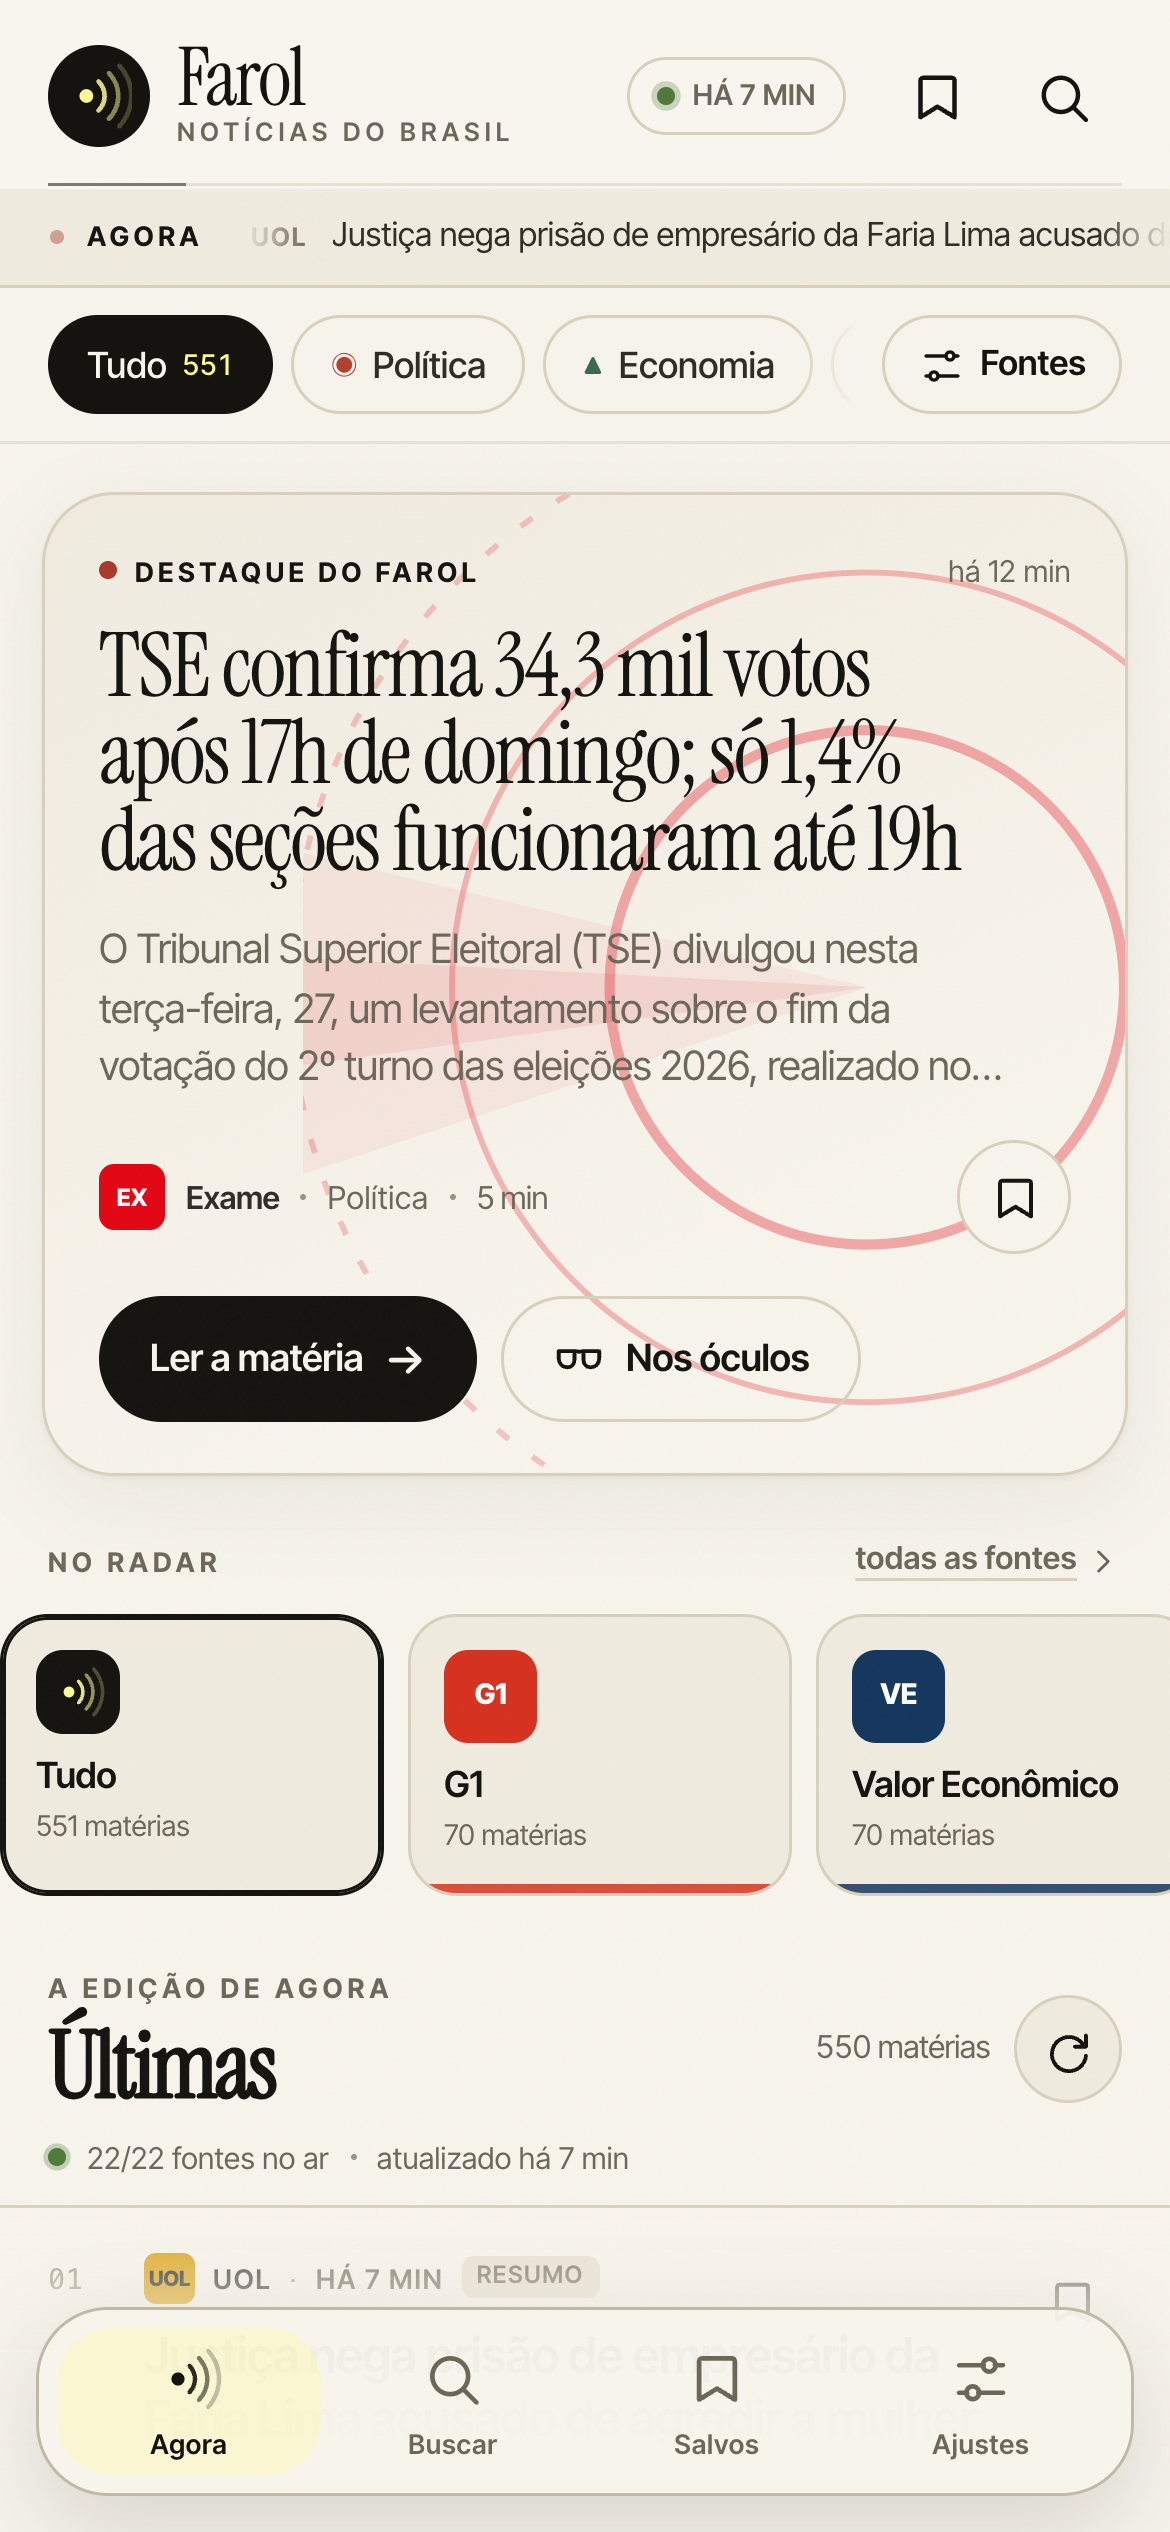
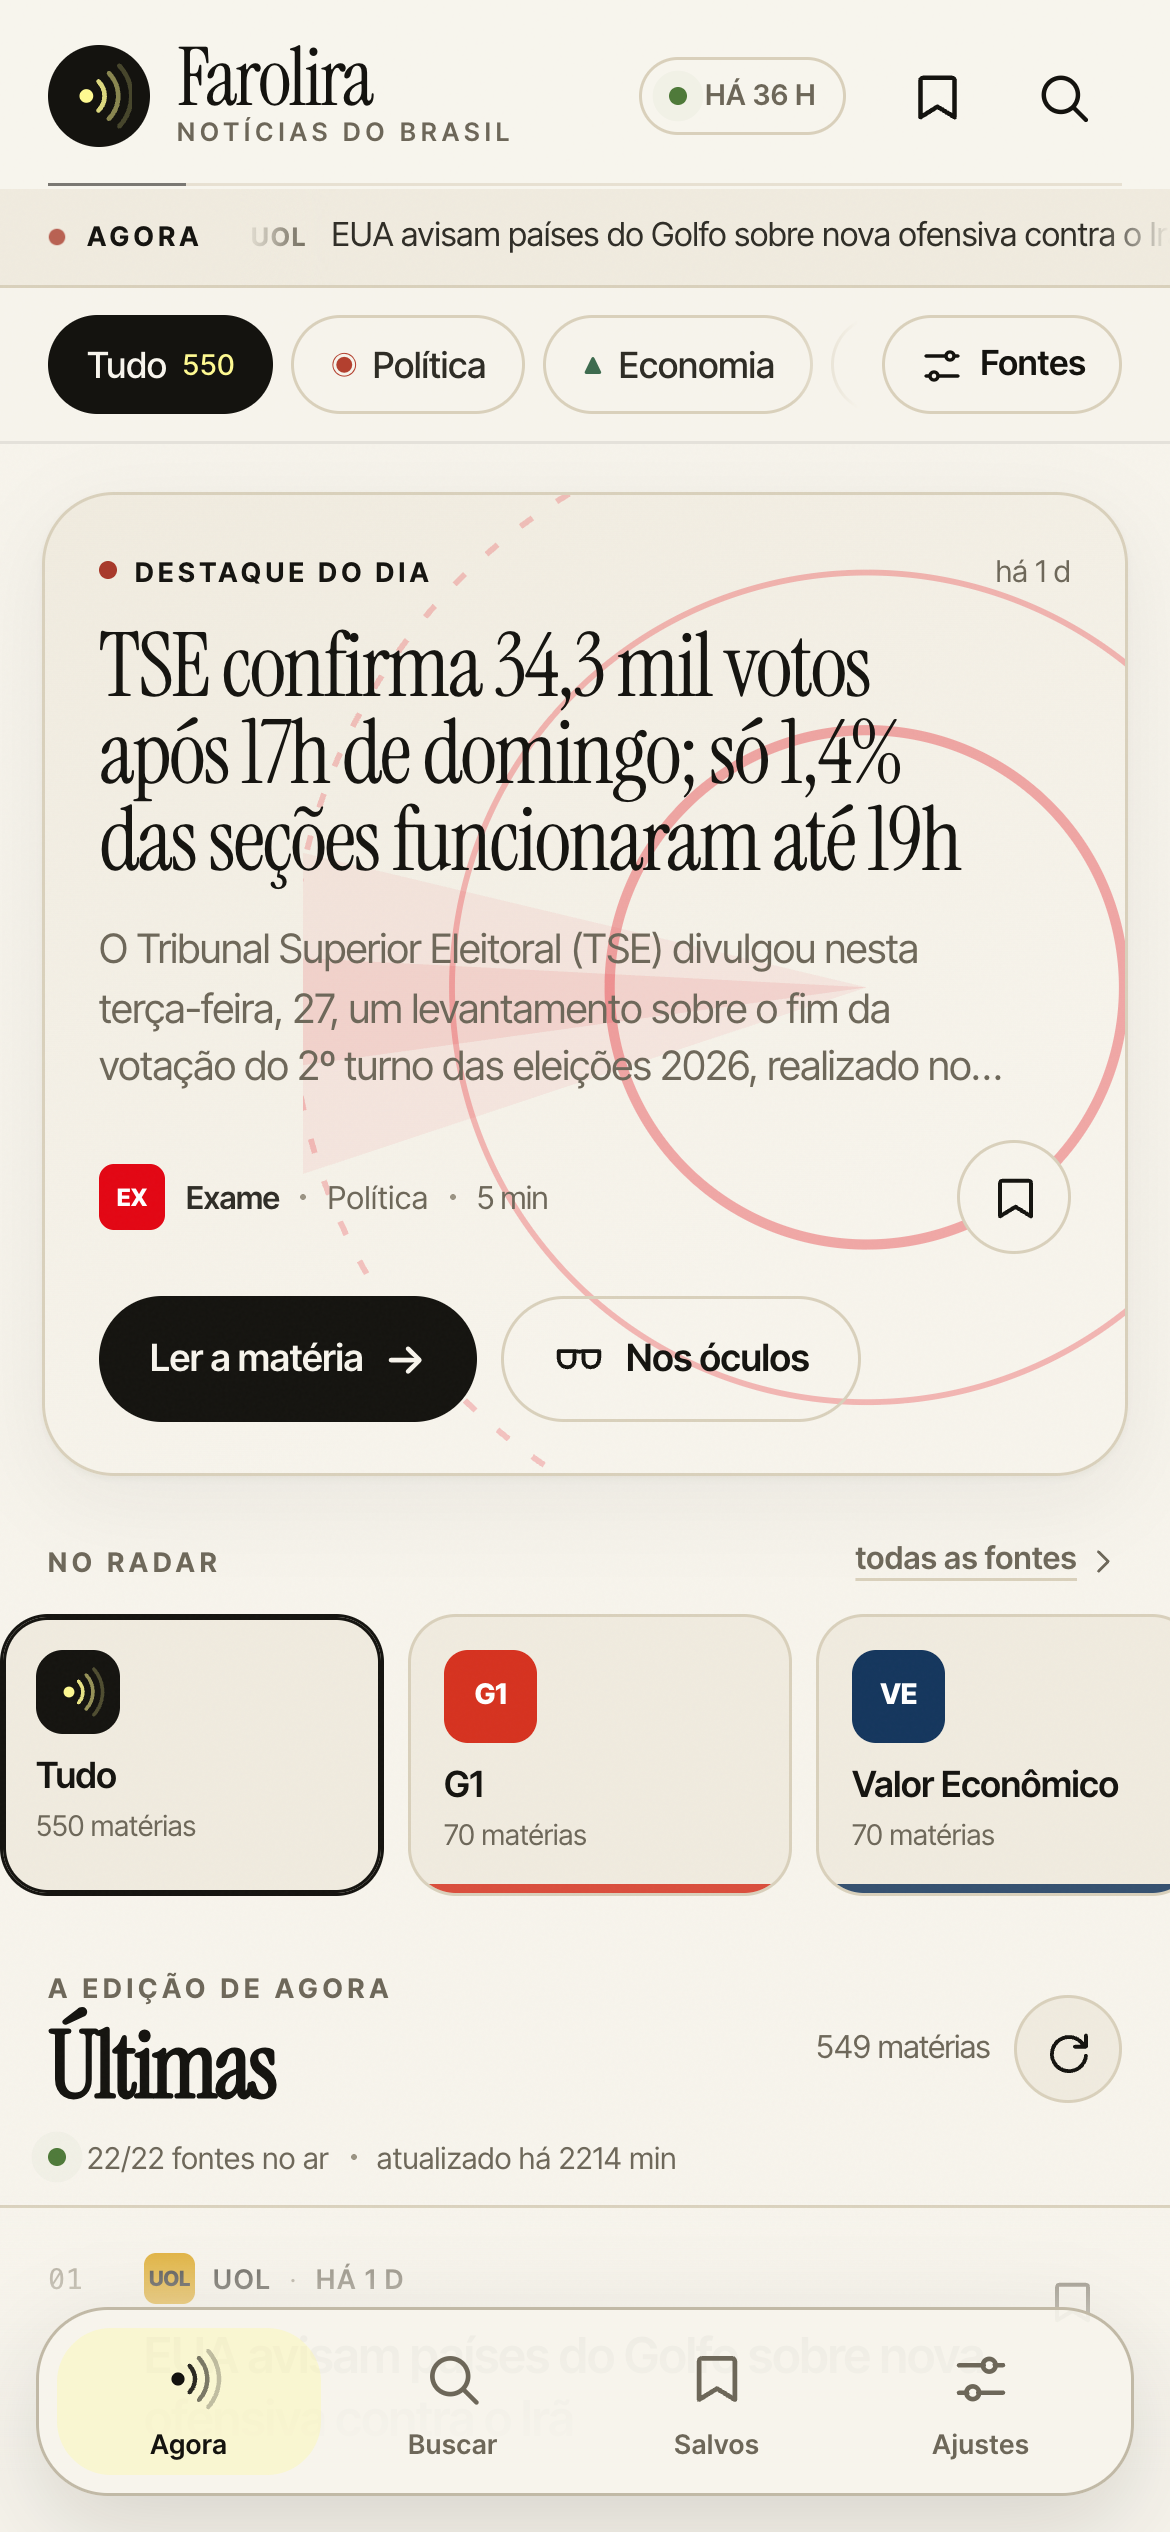
feat: rebrand Farolira (nome, pacote, UI, ícone e textos) e snapshot fresco

diff --git a/src/lib/glasses.ts b/src/lib/glasses.ts
@@ -138,7 +138,7 @@ export class GlassesUI {
                 itemCount: 1,
                 itemWidth: 560,
                 isItemSelectBorderEn: 1,
-                itemName: ['◈  Abrindo o Farol…'],
+                itemName: ['◈  Abrindo o Farolira…'],
               }),
             }),
           ],
@@ -272,11 +272,11 @@ export class GlassesUI {
     const meta = `${source?.name ?? article.sourceId} · ${relativeTime(article.publishedAt)} · leitura ${article.readingMin} min`
     const body =
       (article.content || article.summary || '').trim() ||
-      'Esta matéria ainda não tem texto completo no Farol. Abra a versão original no celular.'
+      'Esta matéria ainda não tem texto completo no Farolira. Abra a versão original no celular.'
     const note = article.full
       ? ''
-      : '\n\n(Resumo do Farol. A íntegra está disponível no site da fonte.)'
-    const text = `▌ ${article.title}\n\n${meta}\n\n${body}${note}\n\n— FAROL`
+      : '\n\n(Resumo do Farolira. A íntegra está disponível no site da fonte.)'
+    const text = `▌ ${article.title}\n\n${meta}\n\n${body}${note}\n\n— FAROLIRA`
     return paginate(text, { width: BODY_W, height: BODY_H })
   }
 
@@ -285,7 +285,7 @@ export class GlassesUI {
   }
 
   private brandLine(): string {
-    return `◈ FAROL  ·  ${clock(new Date().toISOString())}`
+    return `◈ FAROLIRA  ·  ${clock(new Date().toISOString())}`
   }
 
   private topicLine(): string {
@@ -518,7 +518,7 @@ export class GlassesUI {
     this.actions.push(() => this.renderSaved())
     items.push('◈  Como usar')
     this.actions.push(() => this.renderHelp())
-    items.push('×  Sair do Farol')
+    items.push('×  Sair do Farolira')
     this.actions.push(() => this.exit())
 
     const subtitle =
@@ -719,7 +719,7 @@ export class GlassesUI {
   private async renderHelp(): Promise<void> {
     if (!this.ready) return
     this.mode = 'help'
-    const help = `◈ FAROL — COMO USAR
+    const help = `◈ FAROLIRA — COMO USAR
 
 ▲ ▼  navegar e virar página
 ●    abrir a matéria
@@ -731,7 +731,7 @@ ${'─'.repeat(34)}
 No menu: atualizar, filtrar
 por fonte, salvar, ajuda e sair.
 
-O Farol atualiza sozinho a
+O app atualiza sozinho a
 cada 15 minutos. Gesto manual:
 2 toques → menu Atualizar.`
     this.pages = paginate(help, { width: BODY_W, height: BODY_H })

diff --git a/src/components/SettingsView.tsx b/src/components/SettingsView.tsx
@@ -245,7 +245,7 @@ export function SettingsView({
         </div>
         {glasses.state === 'unavailable' && (
           <p className="settings-note">
-            Sem óculos por perto, o Farol segue funcionando aqui. Abra o app no Even Hub com o G2
+            Sem óculos por perto, o app segue funcionando aqui. Abra o app no Even Hub com o G2
             conectado para espelhar as matérias.
           </p>
         )}
@@ -273,7 +273,7 @@ export function SettingsView({
           onClick={async () => {
             if (!window.confirm('Limpar o cache de notícias? Seus salvos continuam guardados.')) return
             await onClearCache()
-            onToast('Cache limpo. O Farol vai buscar novidades.')
+            onToast('Cache limpo. O Farolira vai buscar novidades.')
           }}
         >
           <span className="setting-row__icon"><TrashIcon size={18} /></span>
@@ -291,7 +291,7 @@ export function SettingsView({
           <BookmarkIcon size={18} />
         </div>
         <p className="settings-note">
-          O Farol não tem login nem rastreamento. As notícias vêm de feeds públicos dos veículos;
+          O app não tem login nem rastreamento. As notícias vêm de feeds públicos dos veículos;
           favoritos e ajustes ficam no armazenamento do seu celular via Even Hub.
         </p>
       </div>
@@ -299,7 +299,7 @@ export function SettingsView({
       <footer className="about">
         <span className="about__mark" aria-hidden="true">◈</span>
         <div>
-          <strong>Farol Notícias</strong>
+          <strong>Farolira</strong>
           <span>versão 1.0.0 · feito para Even Realities G2</span>
           <button className="about__link" onClick={() => window.open('https://github.com/andrebadini/farol-noticias', '_blank', 'noopener')}>
             github.com/andrebadini/farol-noticias <ExternalIcon size={12} />

diff --git a/index.html b/index.html
@@ -5,10 +5,10 @@
     <link rel="icon" type="image/svg+xml" href="./favicon.svg" />
     <meta name="viewport" content="width=device-width, initial-scale=1, maximum-scale=1, user-scalable=no, viewport-fit=cover" />
     <meta name="theme-color" content="#f7f4ec" />
-    <meta name="description" content="Farol Notícias — as notícias do Brasil no celular e nos óculos Even Realities G2." />
+    <meta name="description" content="Farolira — as notícias do Brasil no celular e nos óculos Even Realities G2." />
     <meta name="apple-mobile-web-app-capable" content="yes" />
     <meta name="apple-mobile-web-app-status-bar-style" content="default" />
-    <title>Farol Notícias</title>
+    <title>Farolira · Notícias do Brasil</title>
   </head>
   <body>
     <div id="root"></div>

diff --git a/src/components/SearchView.tsx b/src/components/SearchView.tsx
@@ -153,7 +153,7 @@ export function SearchView({
             <p>
               {voice.supported
                 ? 'O microfone do navegador está disponível. Se a permissão falhar, use o botão de ditado do teclado.'
-                : 'O WebView do Even Hub não libera o microfone para páginas. Toque no microfone do teclado do celular e dite a busca — o Farol entende igual.'}
+                : 'O WebView do Even Hub não libera o microfone para páginas. Toque no microfone do teclado do celular e dite a busca — a busca entende igual.'}
             </p>
           </div>
           {voiceHelp && (

diff --git a/src/components/Reader.tsx b/src/components/Reader.tsx
@@ -150,7 +150,7 @@ export function Reader({ meta, article, source, saved, fontScale, onFontScale, o
               <div>
                 <strong>Texto resumido</strong>
                 <p>
-                  Esta matéria chegou ao Farol apenas com o resumo. Abra a versão original para ler a
+                  Esta matéria chegou ao Farolira apenas com o resumo. Abra a versão original para ler a
                   íntegra no site do veículo.
                 </p>
               </div>

diff --git a/src/components/MiniGlasses.tsx b/src/components/MiniGlasses.tsx
@@ -27,7 +27,7 @@ export function MiniGlasses({
     <div className="mini-glasses" role="img" aria-label="Prévia aproximada do que aparece nos óculos">
       <div className="mini-glasses__screen">
         <div className="mini-glasses__top">
-          <span>◈ FAROL</span>
+          <span>◈ FAROLIRA</span>
           <span>{new Date().toLocaleTimeString('pt-BR', { hour: '2-digit', minute: '2-digit' })}</span>
         </div>
         <div className="mini-glasses__topic">

diff --git a/src/App.tsx b/src/App.tsx
@@ -267,7 +267,7 @@ export default function App() {
   const sendToGlasses = useCallback(
     async (meta: ArticleMeta) => {
       if (glassesStatus.state !== 'ready' || !glassesRef.current) {
-        showToast('Abra o Farol no Even Hub com os óculos G2 conectados.')
+        showToast('Abra o app no Even Hub com os óculos G2 conectados.')
         return
       }
       const full = (await fetchArticle(meta)) ?? { ...meta, content: meta.summary }

diff --git a/src/components/Boot.tsx b/src/components/Boot.tsx
@@ -8,7 +8,7 @@ export function BootSplash({ leaving }: { leaving: boolean }) {
         <span className="splash__beam splash__beam--2" />
         <span className="splash__dot"><BeaconMark size={38} /></span>
       </div>
-      <div className="splash__word">Farol</div>
+      <div className="splash__word">Farolira</div>
       <p className="splash__tag">notícias do Brasil, num olhar</p>
       <div className="splash__bar"><span /></div>
     </div>

diff --git a/src/components/Header.tsx b/src/components/Header.tsx
@@ -28,7 +28,7 @@ export function Header({ updatedAt, online, totalSources, savedCount, onSaved, o
           <BeaconMark size={22} />
         </span>
         <div className="topbar__word">
-          <span className="wordmark">Farol</span>
+          <span className="wordmark">Farolira</span>
           <span className="topbar__sub">notícias do Brasil</span>
         </div>
       </div>

diff --git a/src/components/Feed.tsx b/src/components/Feed.tsx
@@ -121,7 +121,7 @@ export function Feed({
       ) : (
         <div className="feed__end">
           <span className="feed__end-mark" aria-hidden="true">◈</span>
-          Você chegou ao fim da edição. O Farol se atualiza sozinho a cada 15 minutos.
+          Você chegou ao fim da edição. O app se atualiza sozinho a cada 15 minutos.
         </div>
       )}
     </section>

diff --git a/src/index.css b/src/index.css
@@ -1,5 +1,5 @@
 /* ==========================================================================
-   Farol Notícias — sistema visual
+   Farolira — sistema visual
    Papel jornal + tinta + amarelo Even. Tipografia editorial (Instrument
    Serif) para manchetes, Inter Tight para a interface.
    ========================================================================== */

diff --git a/src/components/Hero.tsx b/src/components/Hero.tsx
@@ -30,7 +30,7 @@ export function Hero({
       <div className="hero__kicker">
         <span className="kicker">
           <span className="kicker__dot" />
-          destaque do farol
+          destaque do dia
         </span>
         <span className="hero__when">{relativeTime(article.publishedAt)}</span>
       </div>
